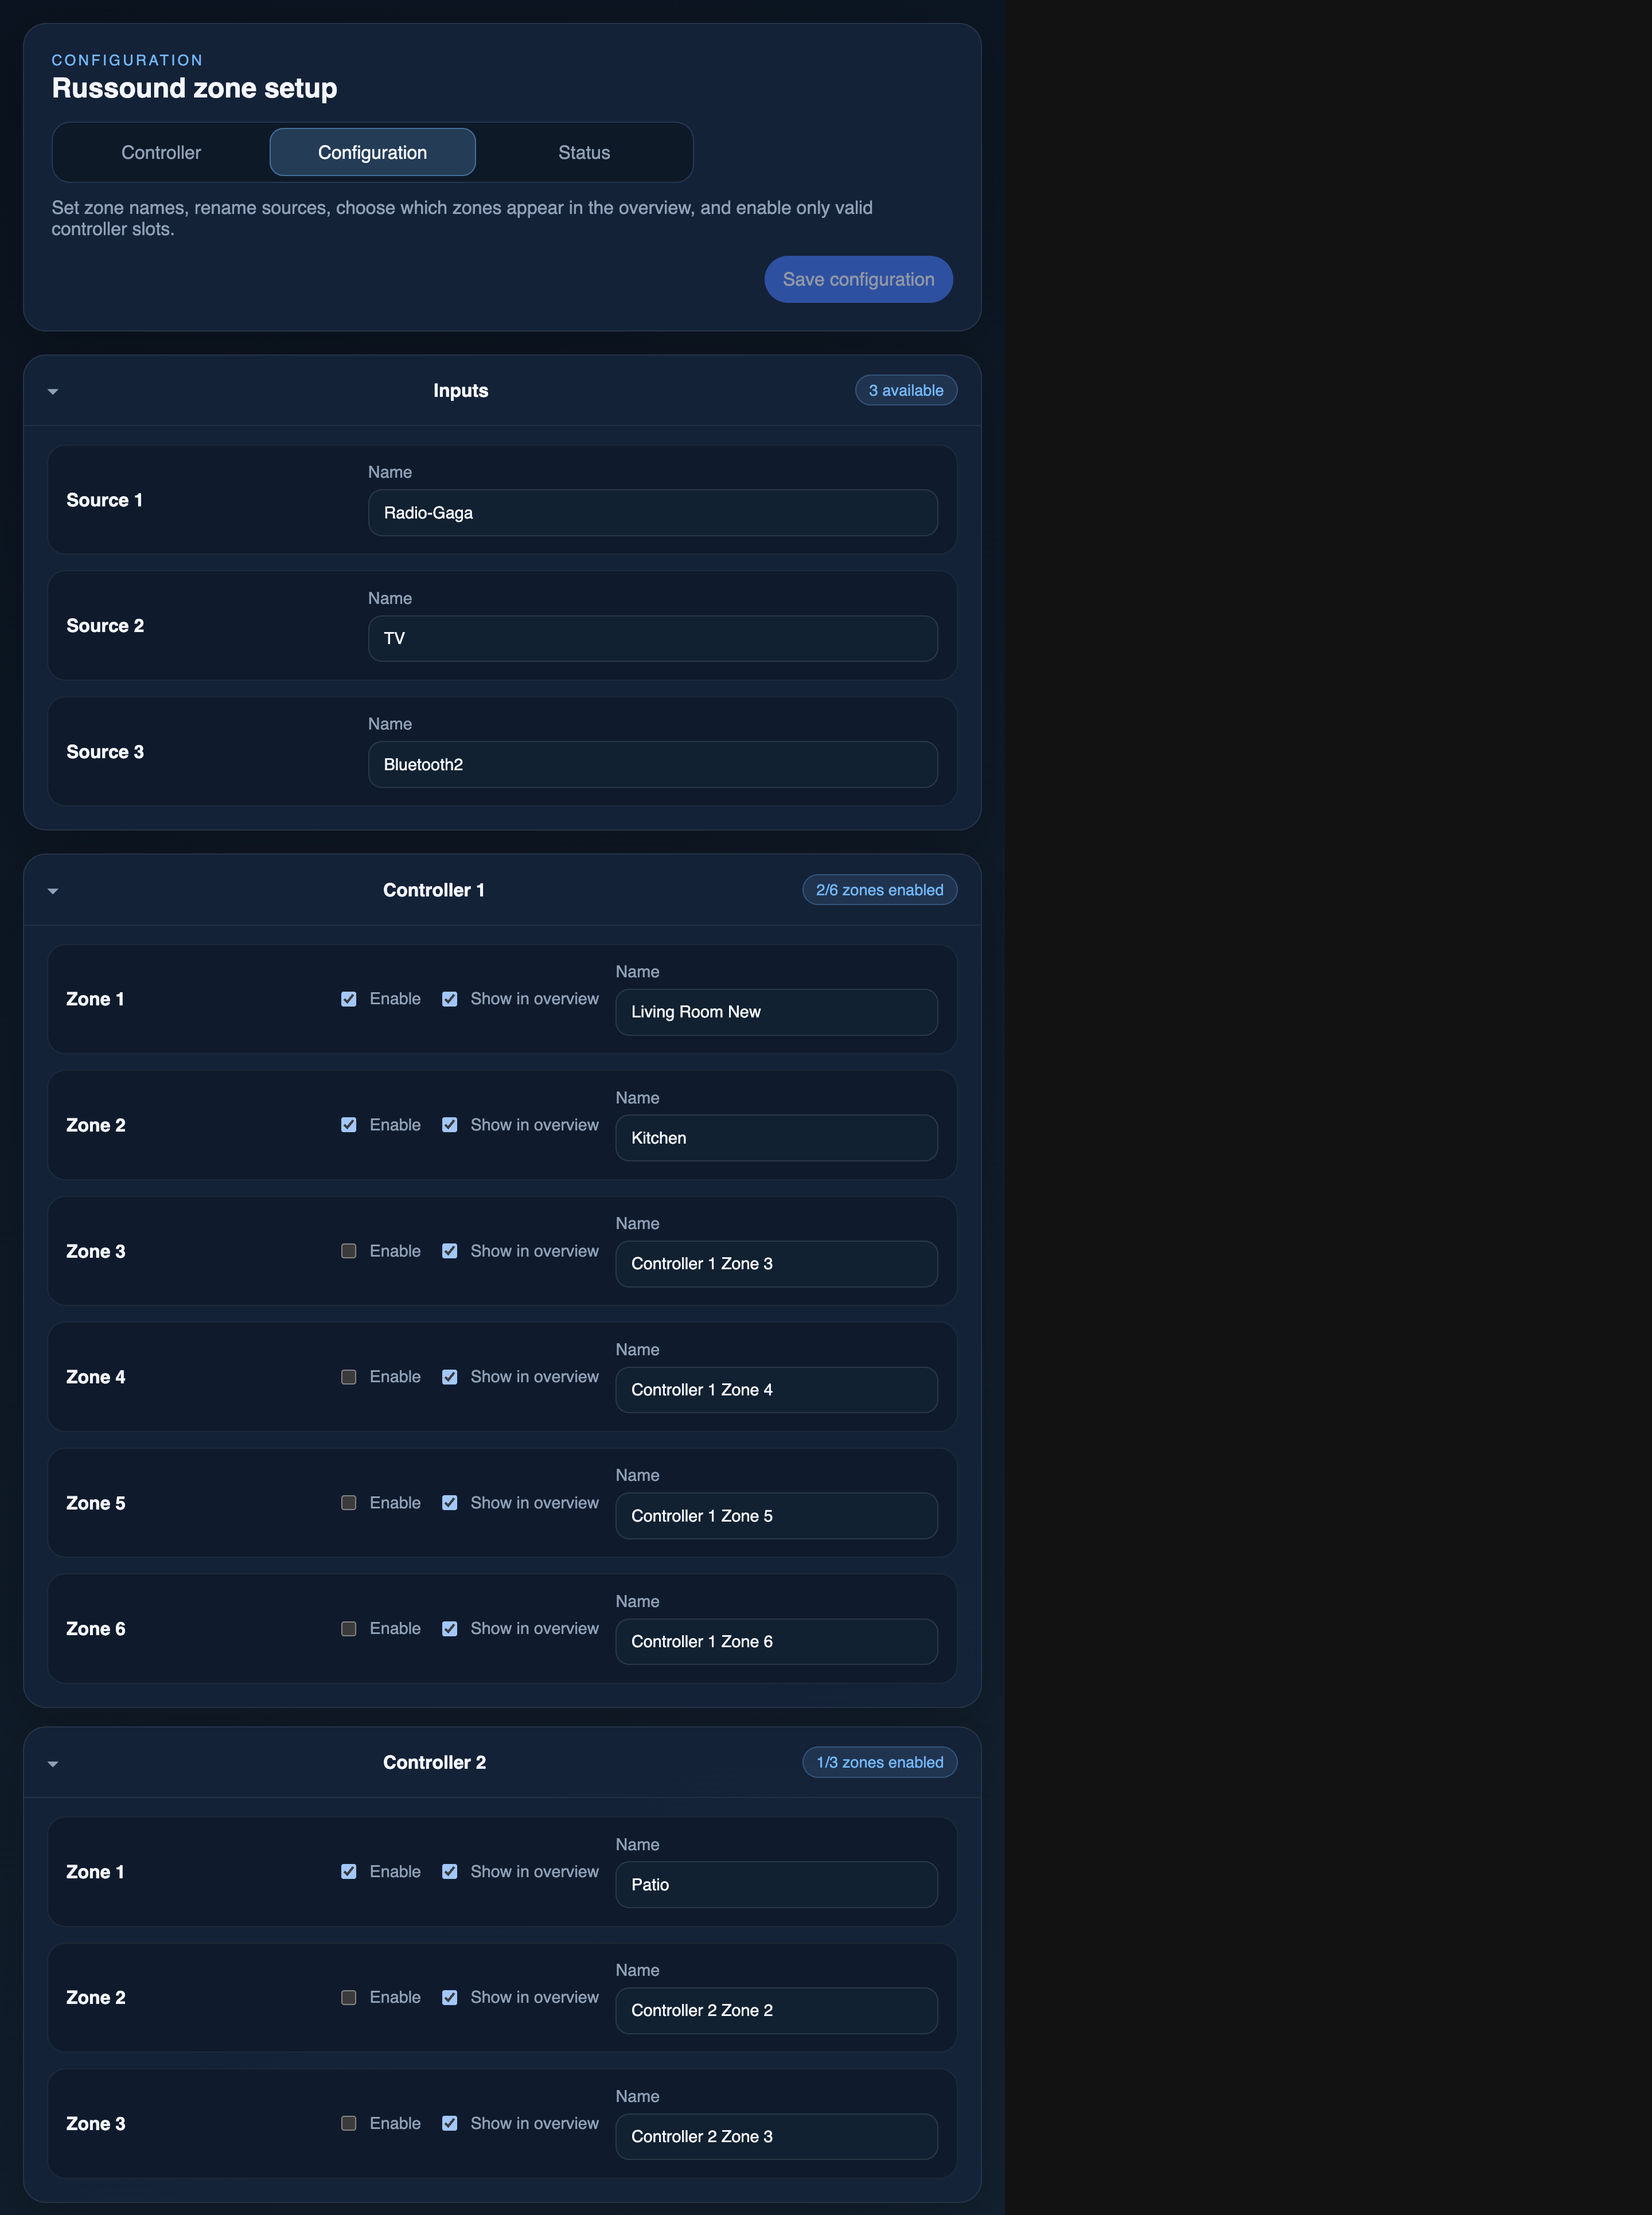
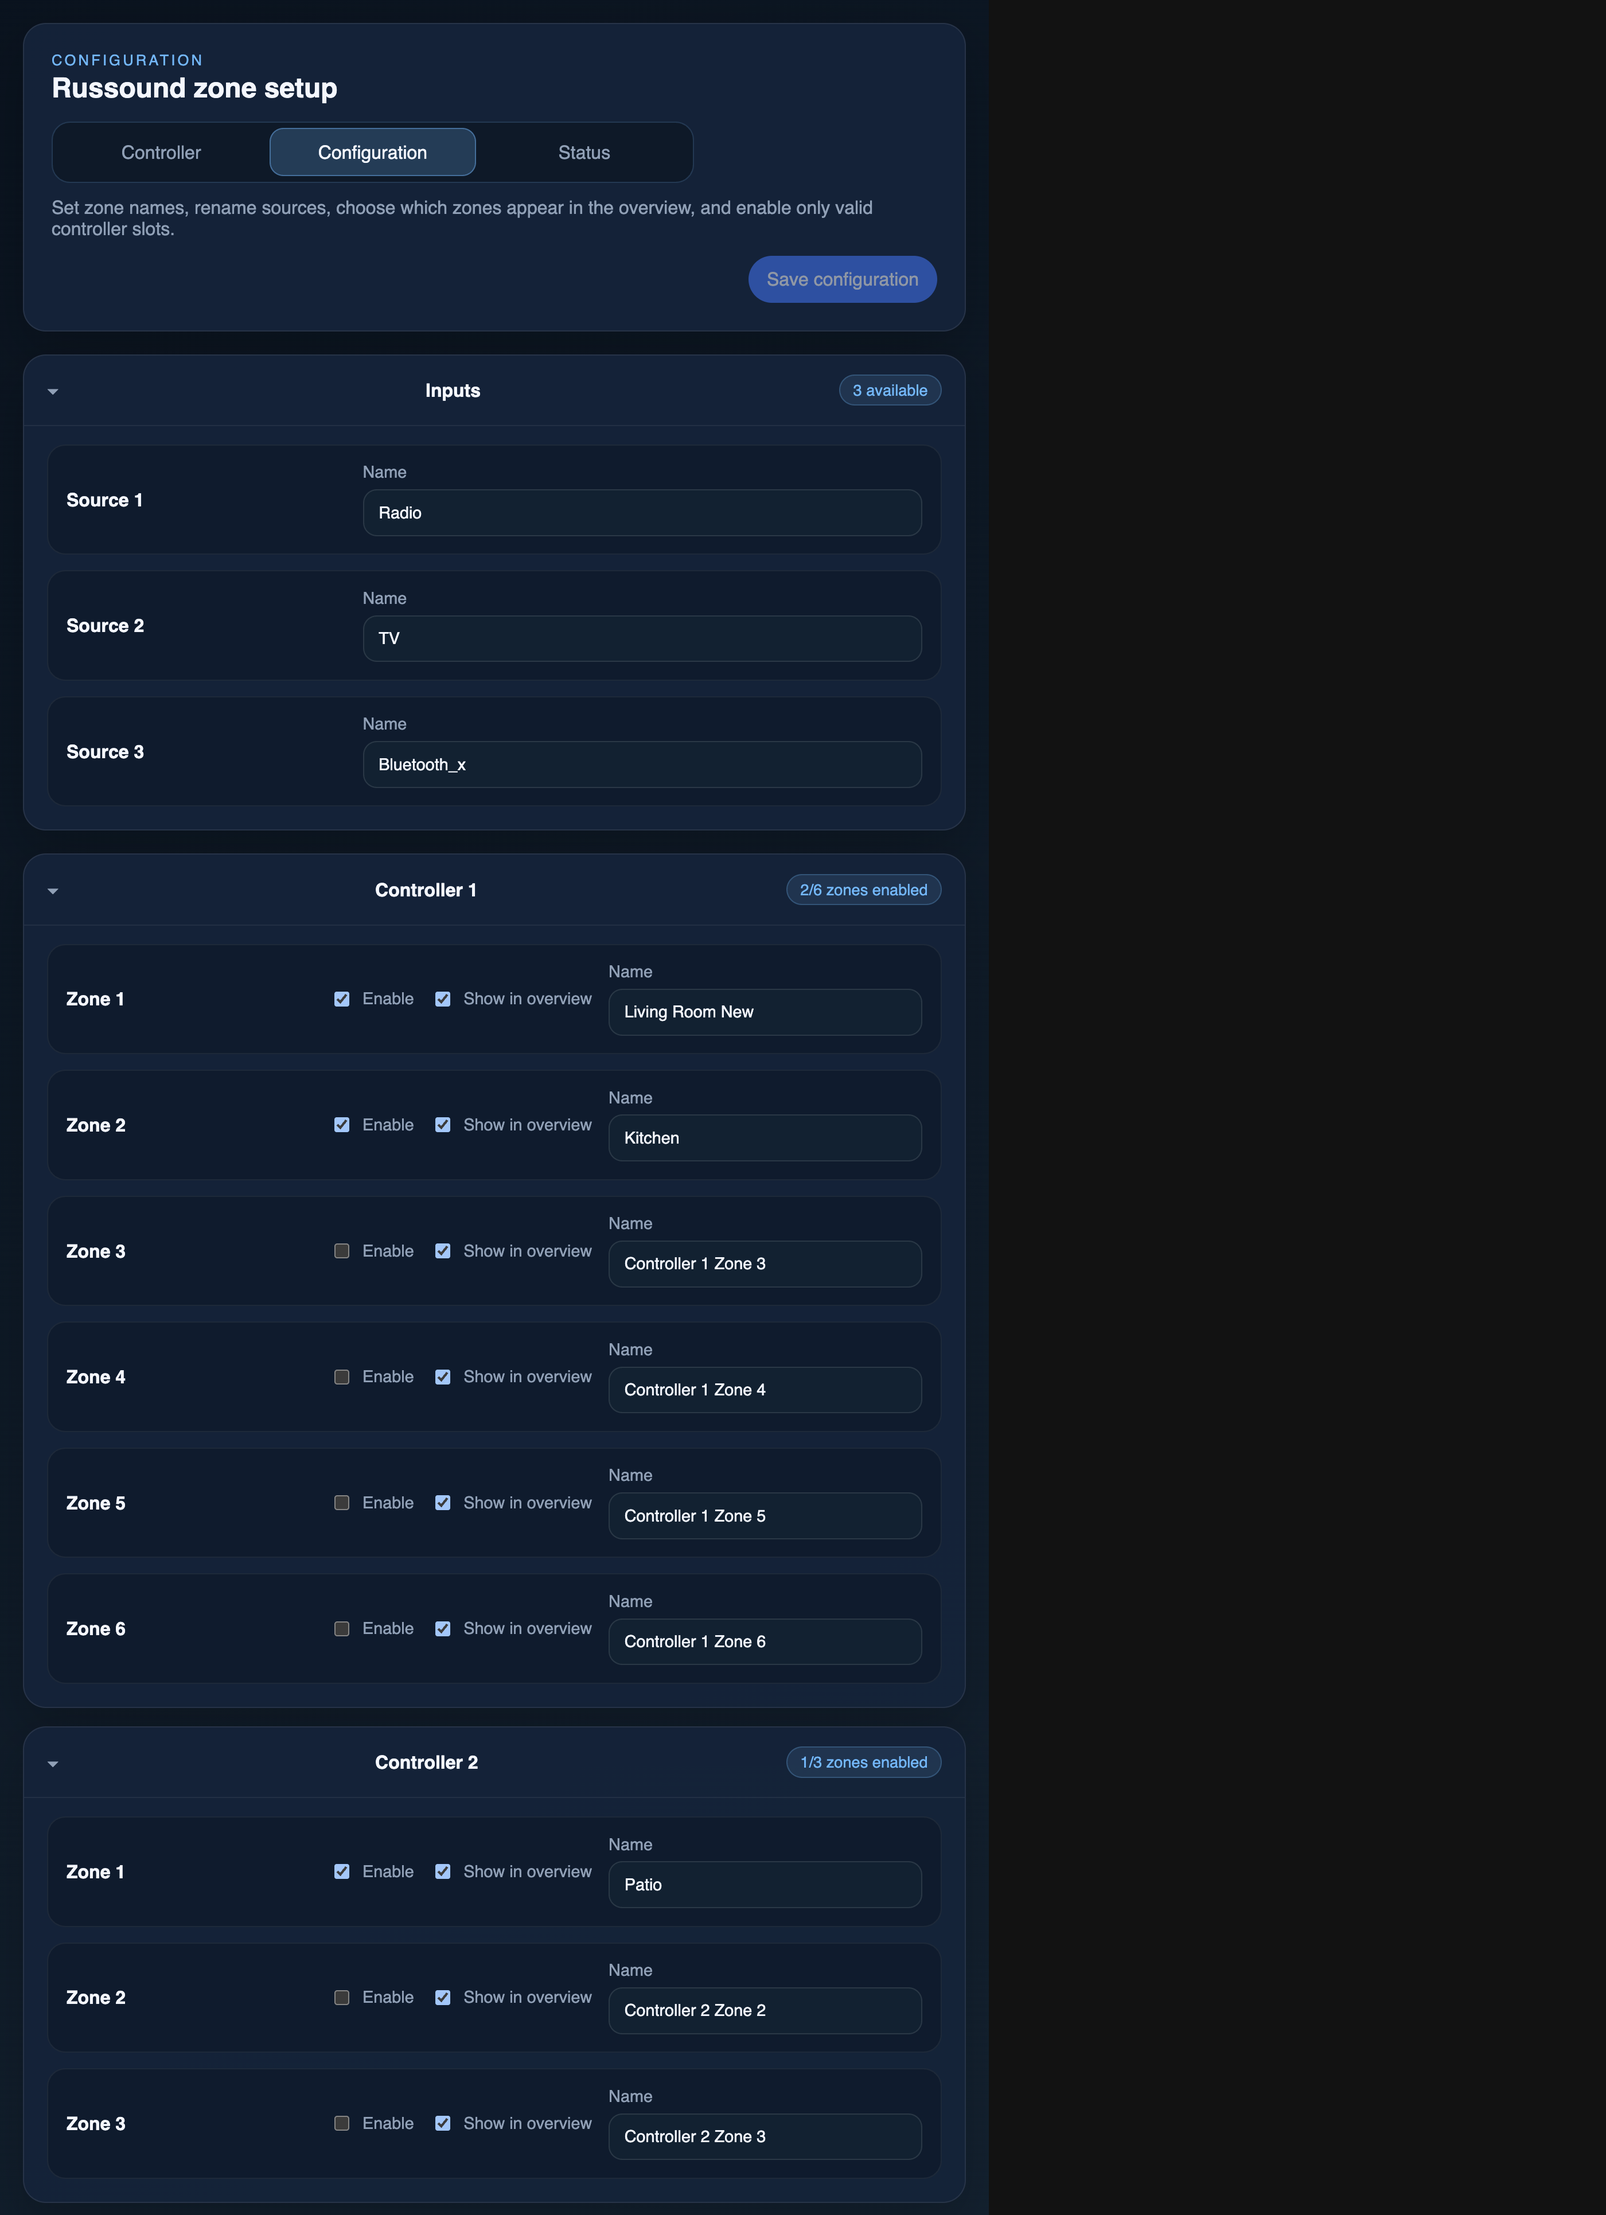
updated documentation

diff --git a/README.md b/README.md
@@ -1,12 +1,13 @@
 # MPDRussoundPi
 
-MPDRussoundPi is a Python-based control stack for Russound multi-room audio systems. It combines service setup automation, runtime control scripts, and a modern browser UI for day-to-day operation.
+MPDRussoundPi is a Python-based control stack for Russound multi-room audio systems. It combines service setup automation, runtime control scripts, and a browser UI for day-to-day operation.
 
 The repository currently includes:
 
 - Russound + MPD setup automation for target hosts (Ansible playbooks).
 - Runtime scripts for audio setup and MPD orchestration.
 - A token-protected web control server with live synchronization.
+- A controller dashboard with flip-card advanced sound controls and a visible hardware warning banner.
 - A configuration editor for zones and sources.
 - A status monitor for connected clients and recent frontend actions.
 
@@ -28,6 +29,8 @@ The repository currently includes:
 
 - Multi-zone Russound control (power, source, volume).
 - Physical zone addressing via controller/zone mapping.
+- Advanced sound controls for bass, treble, balance, and loudness.
+- A prominent hardware connectivity warning banner when the backend cannot reach Russound hardware.
 - Global system power-off action.
 - Shortcut presets targeting multiple zones.
 - Config-driven UI visibility and naming.
@@ -64,7 +67,7 @@ The repository currently includes:
 ### Frontend
 
 - `web/static/index.html` + `web/static/app.js`
-  - Main control dashboard.
+  - Main control dashboard with the flip-card advanced audio controls and backend warning banner.
 - `web/static/config.html` + `web/static/config.js`
   - Configuration editor for zones and input names.
 - `web/static/status.html` + `web/static/status.js`
@@ -134,6 +137,10 @@ Common endpoints:
 - `POST /api/controller/{controllerId}/zone/{zoneNumber}/power`
 - `POST /api/controller/{controllerId}/zone/{zoneNumber}/source`
 - `POST /api/controller/{controllerId}/zone/{zoneNumber}/volume`
+- `POST /api/controller/{controllerId}/zone/{zoneNumber}/bass`
+- `POST /api/controller/{controllerId}/zone/{zoneNumber}/treble`
+- `POST /api/controller/{controllerId}/zone/{zoneNumber}/loudness`
+- `POST /api/controller/{controllerId}/zone/{zoneNumber}/balance`
 
 ## Testing
 

diff --git a/web/API.md b/web/API.md
@@ -32,10 +32,10 @@ Examples:
 The server exposes three response types:
 
 - JSON API responses from `/api/*`
-- HTML pages from `/`, `/index.html`, and `/status`
+- HTML pages from `/`, `/index.html`, `/config`, and `/status`
 - Server-Sent Events from `/api/events`
 
-Most mutating API routes return the latest full view payload after the change is applied.
+Most mutating API routes return the latest full view payload after the change is applied, including the latest backend connectivity banner state.
 
 Exceptions:
 
@@ -51,6 +51,8 @@ The server currently expects these request body field types:
 - `treble`: integer
 - `loudness`: boolean
 - `balance`: integer
+
+The dashboard also exposes `backend_status` in the main view payload so the frontend can display a warning banner whenever hardware communication is unavailable.
 
 ## API authorization
 
